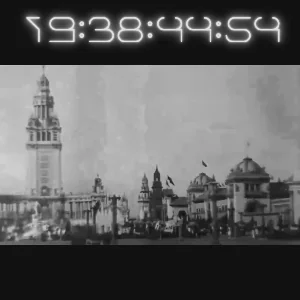
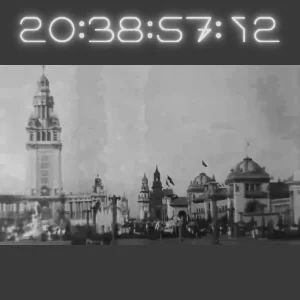
m

diff --git a/src/pages/2026/26-08/26-08-11/Clock.module.css b/src/pages/2026/26-08/26-08-11/Clock.module.css
@@ -5,7 +5,7 @@
   display: flex;
   align-items: center;
   justify-content: center;
-  background-color: #111111;
+  background-color: #393939;
   color: #e0e0e0;
   overflow: hidden;
 }
